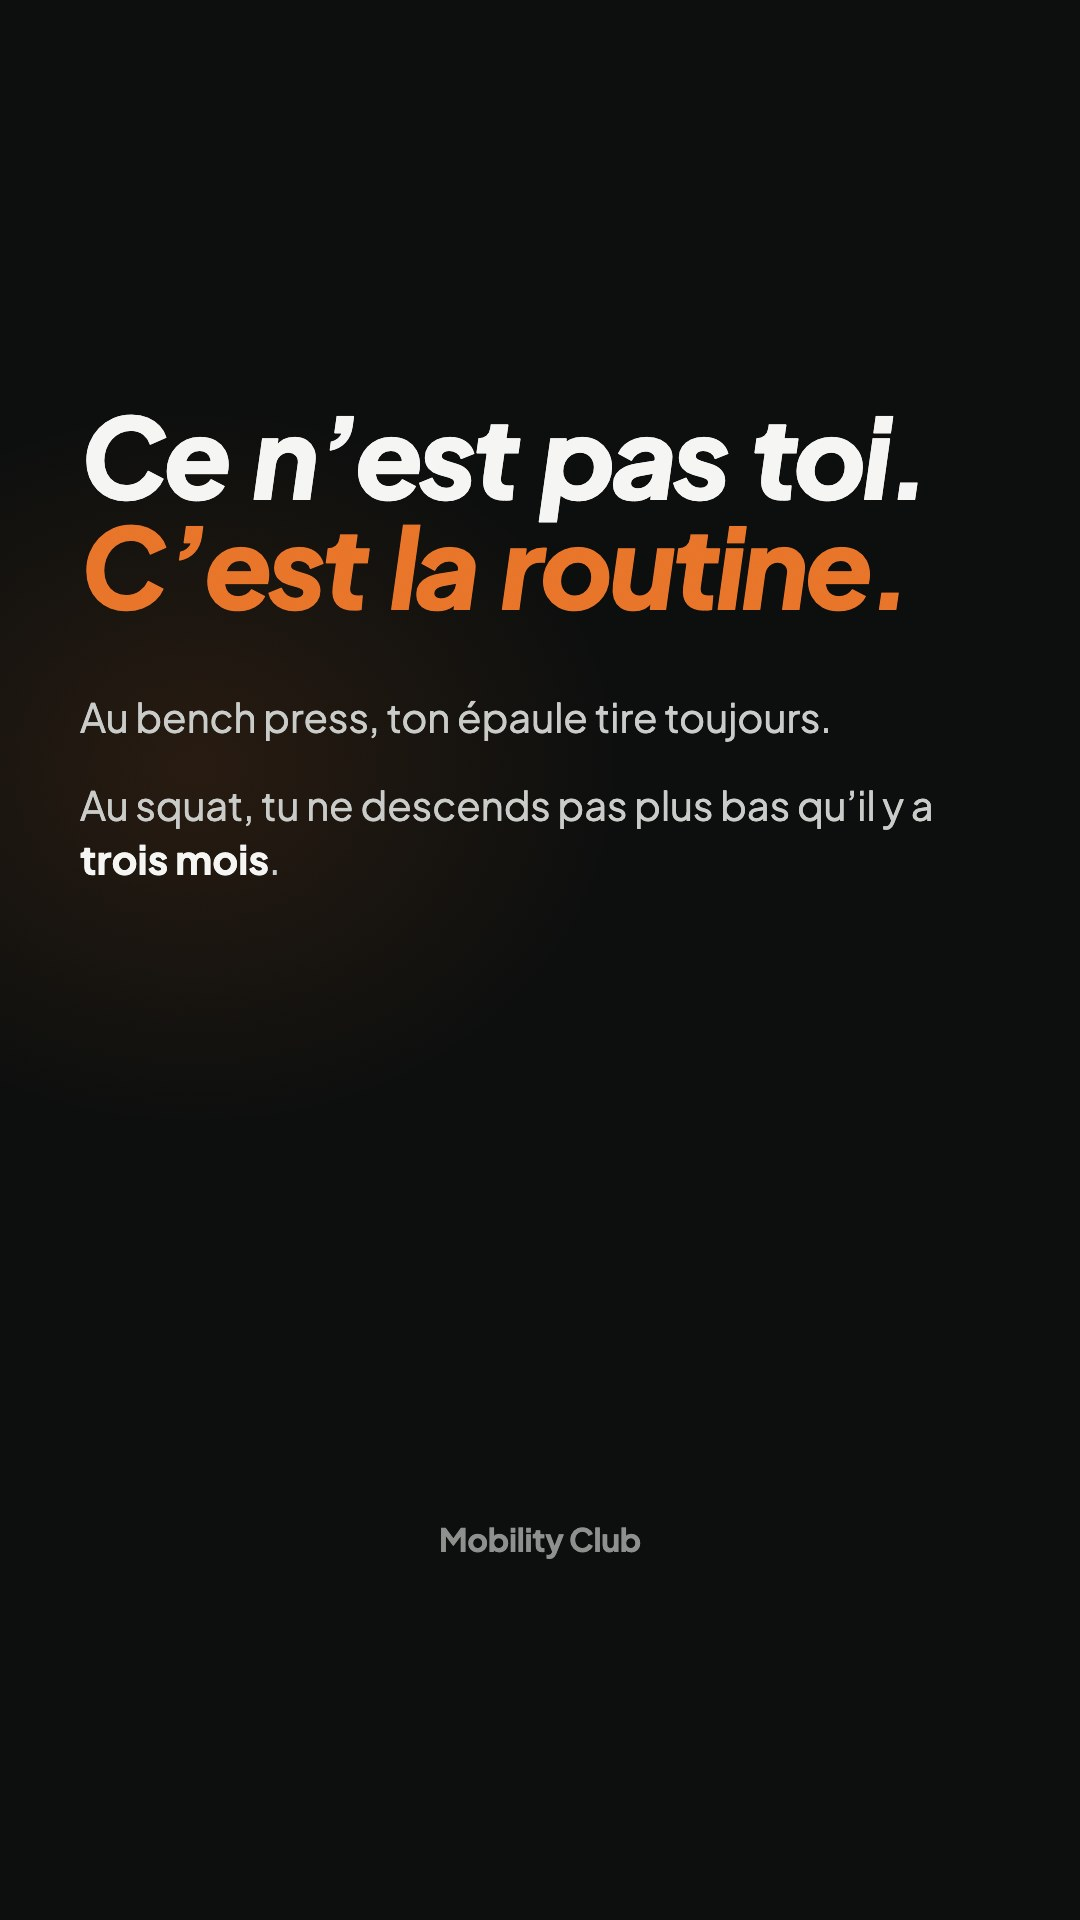
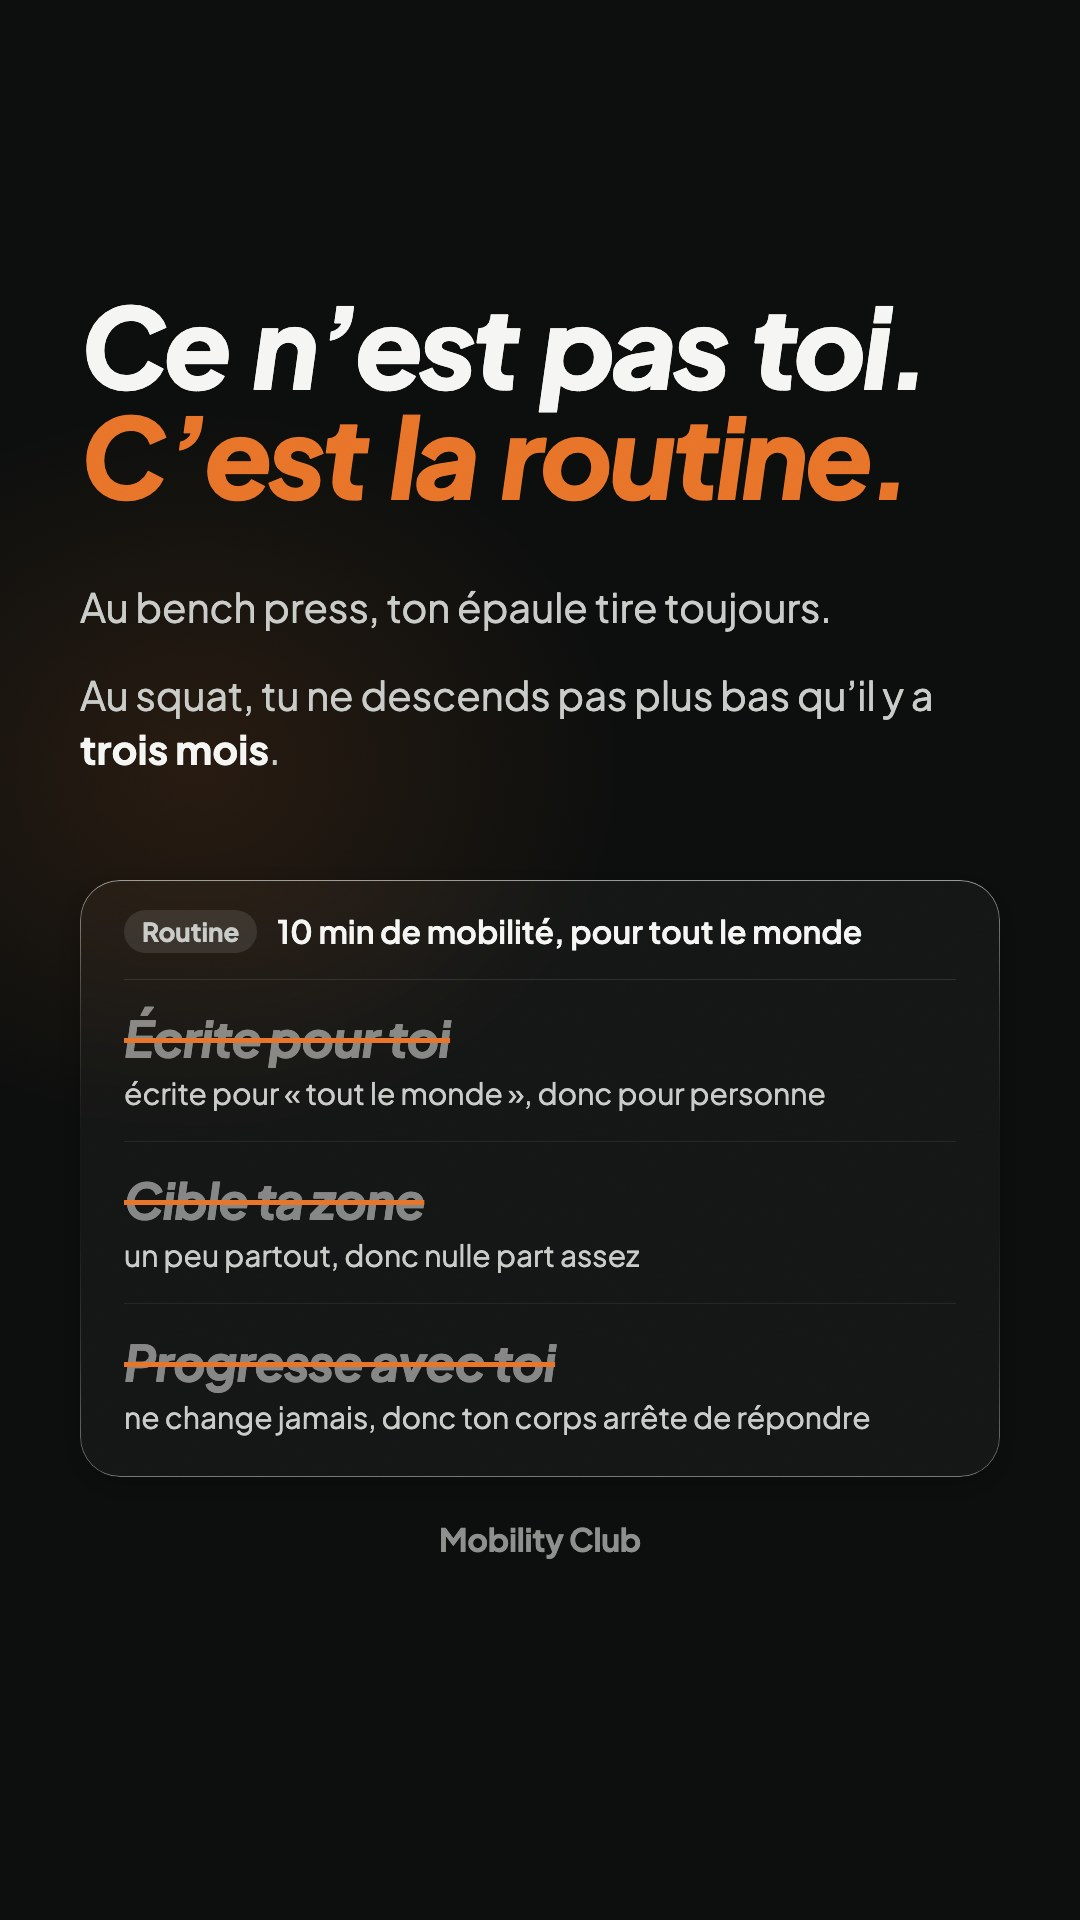
feat(halloween): story 2, routine barrée de la page en grand

diff --git a/scripts/visuels-halloween/story-2.html b/scripts/visuels-halloween/story-2.html
@@ -7,15 +7,25 @@
 <style>
 .st{display:flex;flex-direction:column;align-items:center;}
 .glow{background:radial-gradient(55% 26% at 18% 40%,rgba(232,116,42,.12),transparent 72%);}
-.in{margin-top:400px;width:920px;}
+.in{margin-top:290px;width:920px;}
 h1{font-size:112px;letter-spacing:-.035em;word-spacing:.07em;line-height:.98;}
 .pb{margin-top:70px;display:grid;gap:34px;font-size:40px;line-height:1.35;color:var(--body);}
 .pb b{color:var(--text);font-weight:700;}
 .turn{margin-top:60px;font-style:italic;font-weight:800;font-size:48px;letter-spacing:-.03em;color:var(--text);}
 .marque{position:absolute;left:0;right:0;top:1520px;text-align:center;font-size:32px;}
+.routine{position:absolute;left:80px;right:80px;top:880px;padding:30px 44px 12px;border-radius:40px;}
+.rt-head{display:flex;align-items:center;gap:20px;padding-bottom:26px;border-bottom:1px solid rgba(255,255,255,.1);}
+.rt-tag{padding:6px 18px;border-radius:999px;background:rgba(255,255,255,.1);font-size:26px;font-weight:700;color:var(--body);}
+.rt-head b{font-size:32px;font-weight:600;color:var(--text);}
+.routine ul{list-style:none;margin:0;padding:0;}
+.routine li{display:grid;gap:6px;padding:28px 0;border-bottom:1px solid rgba(255,255,255,.07);}
+.routine li:last-child{border-bottom:0;}
+.routine s{font-size:50px;font-weight:700;font-style:italic;letter-spacing:-.02em;color:rgba(245,245,243,.5);text-decoration:line-through;text-decoration-color:var(--pumpkin);text-decoration-thickness:5px;}
+.routine li span{font-size:30px;color:var(--body);line-height:1.3;}
 </style></head>
 <body>
 <div class="st s1080"><div class="glow"></div>
 <div class="in"><h1>Ce n’est pas toi. <em>C’est la routine.</em></h1>
 <div class="pb"><p>Au bench press, ton épaule tire toujours.</p><p>Au squat, tu ne descends pas plus bas qu’il y a <b>trois mois</b>.</p></div></div>
+<div class="routine lg" role="group"><div class="rt-head"><span class="rt-tag">Routine</span><b>10 min de mobilité, pour tout le monde</b></div><ul><li><s>Écrite pour toi</s><span>écrite pour « tout le monde », donc pour personne</span></li><li><s>Cible ta zone</s><span>un peu partout, donc nulle part assez</span></li><li><s>Progresse avec toi</s><span>ne change jamais, donc ton corps arrête de répondre</span></li></ul></div>
 <div class="marque">Mobility Club</div></div></body></html>
